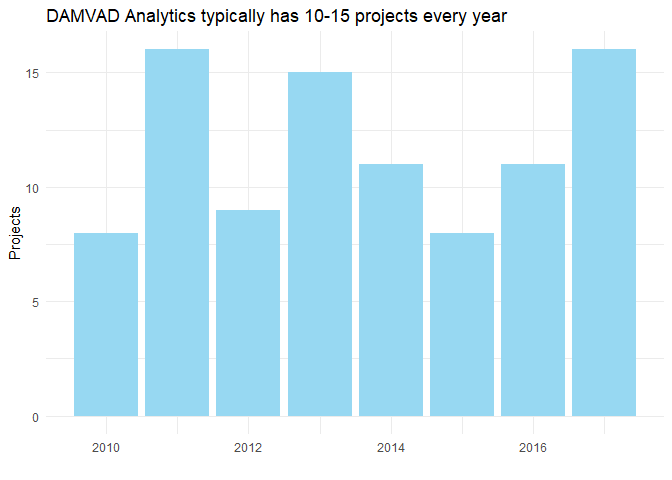
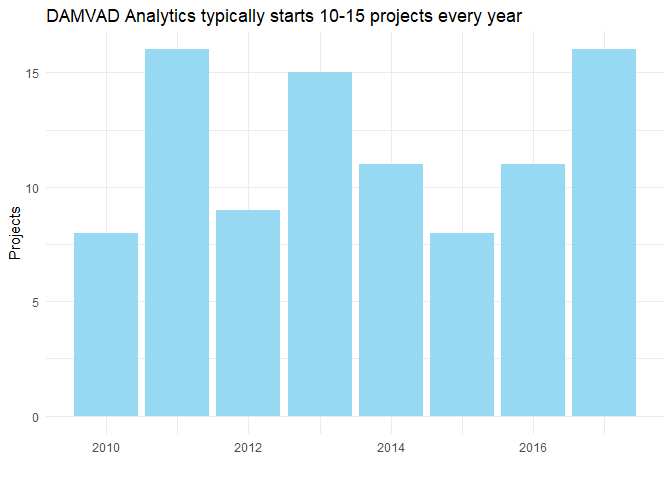
minor text fix

Changed region(s): [[0.4062, 0.0, 0.7812, 0.0625]]

diff --git a/README.md b/README.md
@@ -89,7 +89,7 @@ plot(ggplot(data = DAMVAD_Analytics,
        aes(x = Year, y = Projects, fill="#97d8f2")) +
   geom_col() +
   scale_fill_manual(values ="#97d8f2") +
-  labs(x="", title = "DAMVAD Analytics typically has 10-15 projects every year") +
+  labs(x="", title = "DAMVAD Analytics typically starts 10-15 projects every year") +
   theme_minimal() +
   theme(legend.position = "none"))
 ```
